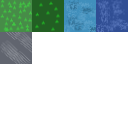
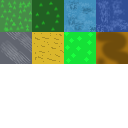
client: new tiles

Changed region(s): [[0.25, 0.25, 1.0, 0.5]]

diff --git a/client/src/com/a2client/model/Tile.java b/client/src/com/a2client/model/Tile.java
@@ -52,9 +52,13 @@ public class Tile
 			case TILE_FOREST_LEAF:
 				return 0;
 			case TILE_FOREST_FIR:
-				return 0;
-			case TILE_GRASS:
 				return 1;
+			case TILE_GRASS:
+				return 6;
+			case TILE_SAND:
+				return 5;
+			case TILE_DIRT:
+				return 7;
 
 			default:
 				return 4;
